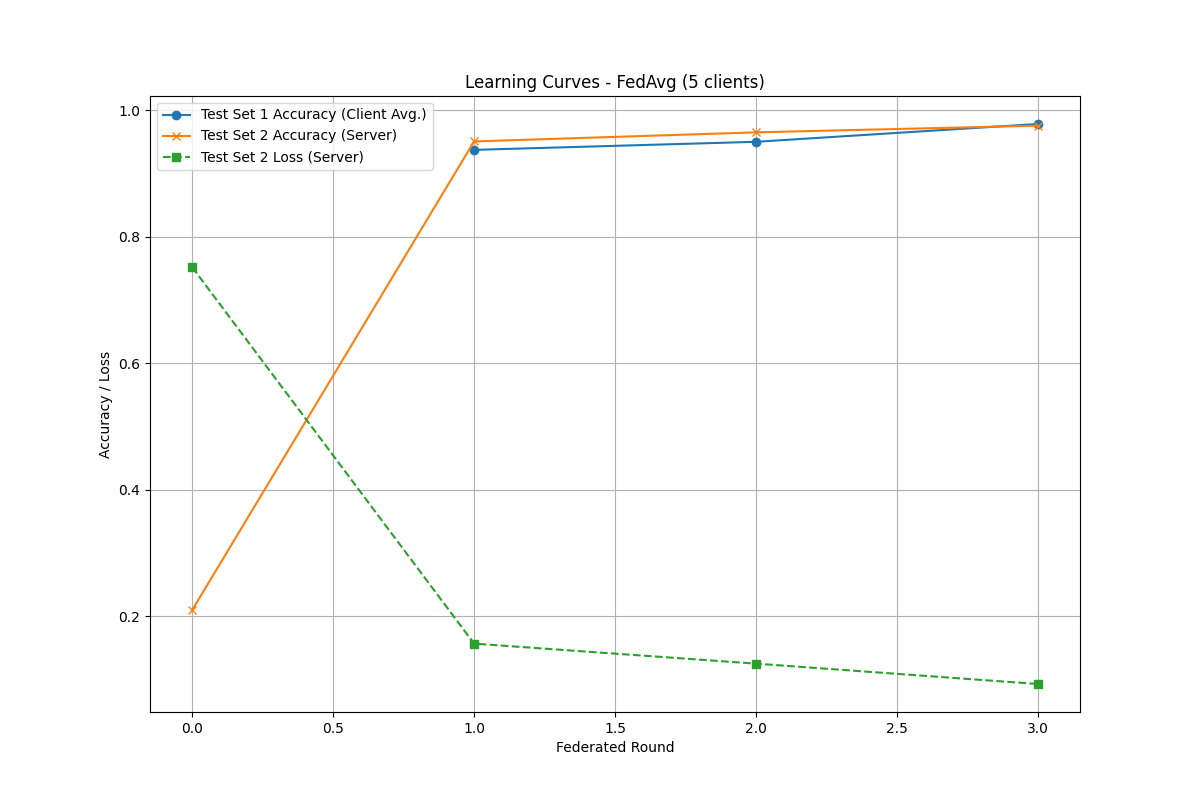
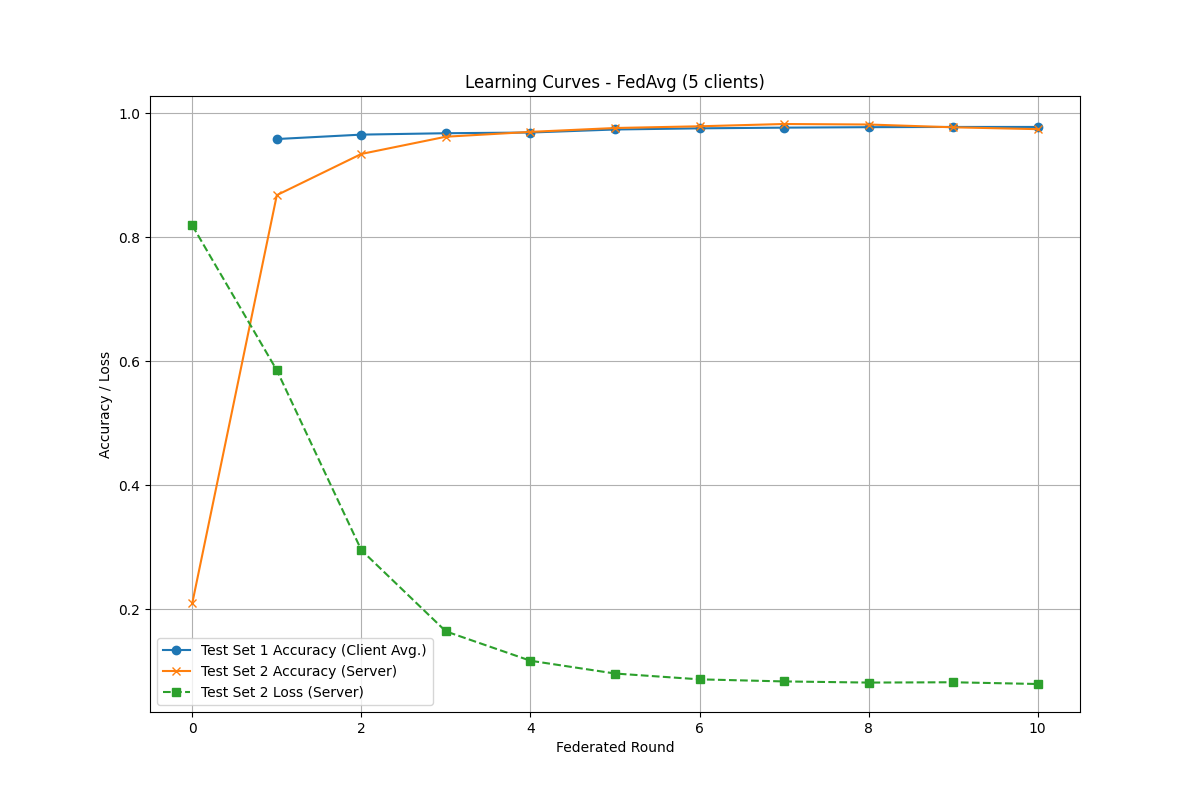
updated

diff --git a/federated_learning.py b/federated_learning.py
@@ -38,6 +38,39 @@ def plot_confusion_matrix(cm, classes, title, filename):
     plt.savefig(filename)
     plt.close()
 
+# --- Helper Function to Print Table Sections ---
+def print_table_section(title: str, headers: List[str], data_rows: List[List[str]], logger_instance):
+    logger_instance.info(f"\n{title}")
+    if not data_rows:
+        logger_instance.info("  (Bu bölüm için veri yok)")
+        return
+
+    col_widths = [len(header) for header in headers]
+    for row_data in data_rows:
+        for i, cell in enumerate(row_data):
+            col_widths[i] = max(col_widths[i], len(str(cell)))
+
+    # Create separator line
+    separator_parts = ["-" * width for width in col_widths]
+    separator = "-+-".join(separator_parts)
+    if not col_widths: # Prevent error if col_widths is empty
+        separator = ""
+
+    # Print header row
+    header_line_parts = [f"{headers[i]:<{col_widths[i]}}" for i in range(len(headers))]
+    logger_instance.info(" | ".join(header_line_parts))
+    if separator: # Only print separator if it's meaningful
+        logger_instance.info(separator)
+
+    # Print data rows
+    for row_data in data_rows:
+        row_line_parts = [f"{str(row_data[i]):<{col_widths[i]}}" for i in range(len(row_data))]
+        logger_instance.info(" | ".join(row_line_parts))
+    
+    if separator: # Add bottom line only if separator is meaningful
+        # Adjust length for " | " separators between columns
+        logger_instance.info("-" * (sum(col_widths) + (len(col_widths) -1) * 3 if col_widths else 0) )
+
 # --- Data Loading and Preprocessing ---
 def load_all_data(train_path='data/datatraining.txt', test1_path='data/datatest.txt', test2_path='data/datatest2.txt'):
     """Load, process, and scale separate training and two separate test files."""
@@ -119,7 +152,6 @@ def train_classical_models(X_train, y_train, X_test1, y_test1, X_test2, y_test2)
         }
         logger.info(f"{name} - Test Set 1 Accuracy: {acc_test1:.4f}")
         logger.info(f"{name} - Test Set 2 Accuracy: {acc_test2:.4f}")
-        logger.info(f"{name} - Training Time: {training_time:.2f} seconds")
     
     logger.info("--- Classical Models Training Completed ---")
     return results
@@ -143,14 +175,15 @@ class OccupancyNN(nn.Module):
 
 # Client class for federated learning
 class OccupancyClient(fl.client.NumPyClient):
-    def __init__(self, model, train_loader, val_loader_test1, device):
+    def __init__(self, model, train_loader, val_loader_test1, device, pos_weight_tensor=None):
         self.model = model
         self.train_loader = train_loader
         self.val_loader_test1 = val_loader_test1 # For Test Set 1
         self.device = device
-        self.optimizer = optim.Adam(self.model.parameters(), lr=0.05)
-        self.criterion = nn.BCELoss()
-        # Add a client-specific identifier (optional, for logging)
+        self.optimizer = optim.Adam(self.model.parameters(), lr=0.001) # Adjusted learning rate
+        self.criterion = nn.BCELoss() # Instantiate first
+        if pos_weight_tensor is not None:
+            self.criterion.pos_weight = pos_weight_tensor # Set pos_weight as an attribute
         self.client_id_str = "UnknownClient"
         if self.train_loader and self.train_loader.dataset:
             self.client_id_str = f"datasize_{len(self.train_loader.dataset)}"
@@ -244,10 +277,11 @@ class OccupancyClient(fl.client.NumPyClient):
 
 # FedProx Client class for federated learning
 class FedProxClient(OccupancyClient): # Inherits from OccupancyClient
-    def __init__(self, model, train_loader, val_loader_test1, device, mu=0.01):
-        super().__init__(model, train_loader, val_loader_test1, device)
+    def __init__(self, model, train_loader, val_loader_test1, device, mu=0.1, pos_weight_tensor=None):
+        super().__init__(model, train_loader, val_loader_test1, device, pos_weight_tensor) # Pass pos_weight_tensor to parent
         self.mu = mu
-        self.global_params = None
+        # Optimizer and criterion are set in parent, but we override optimizer for FedProx
+        self.optimizer = optim.Adam(self.model.parameters(), lr=0.0005) # Different LR for FedProx
         if self.train_loader and self.train_loader.dataset: # update client_id_str
             self.client_id_str = f"FedProx_datasize_{len(self.train_loader.dataset)}"
 
@@ -326,6 +360,13 @@ def main():
     input_size = X_train_scaled.shape[1]
     class_names_fl = ['Not Occupied', 'Occupied'] # Class names for FL CM
 
+    # Calculate pos_weight for BCELoss to handle class imbalance
+    num_positives = np.sum(y_train)
+    num_negatives = len(y_train) - num_positives
+    pos_weight_value = num_negatives / num_positives if num_positives > 0 else 1.0 # Avoid division by zero
+    pos_weight_tensor = torch.tensor([pos_weight_value], device=device)
+    logger.info(f"Calculated pos_weight for BCELoss: {pos_weight_value:.4f}")
+
     # Create initial parameters once (same for all FL simulations)
     initial_model_for_fl = OccupancyNN(input_size).to(device)
     initial_params_ndarrays = [val.cpu().numpy() for _, val in initial_model_for_fl.state_dict().items()]
@@ -334,7 +375,7 @@ def main():
     client_counts_to_test = [2, 3, 5] 
     all_fl_results_by_client_count = {}
     # Update fit_config to include number of epochs
-    num_local_epochs = 1 # Control local epoch count here
+    num_local_epochs = 5 # Adjusted local epoch count
 
     for n_c in client_counts_to_test:
         logger.info(f"\n--- Starting Federated Learning Simulation: {n_c} Clients ---")
@@ -349,7 +390,7 @@ def main():
             train_loader = DataLoader(TensorDataset(torch.FloatTensor(X_train_client), torch.FloatTensor(y_train_client).reshape(-1, 1)), batch_size=32, shuffle=True)
             val_loader_test1 = DataLoader(TensorDataset(torch.FloatTensor(X_test1_scaled), torch.FloatTensor(y_test1).reshape(-1, 1)), batch_size=32)
             model = OccupancyNN(input_size).to(device)
-            return OccupancyClient(model, train_loader, val_loader_test1, device)
+            return OccupancyClient(model, train_loader, val_loader_test1, device, pos_weight_tensor=pos_weight_tensor)
 
         def current_client_fn_fedprox(cid: str) -> fl.client.Client:
             client_id = int(cid)
@@ -358,7 +399,7 @@ def main():
             train_loader = DataLoader(TensorDataset(torch.FloatTensor(X_train_client), torch.FloatTensor(y_train_client).reshape(-1, 1)), batch_size=32, shuffle=True)
             val_loader_test1 = DataLoader(TensorDataset(torch.FloatTensor(X_test1_scaled), torch.FloatTensor(y_test1).reshape(-1, 1)), batch_size=32)
             model = OccupancyNN(input_size).to(device)
-            return FedProxClient(model, train_loader, val_loader_test1, device, mu=0.01)
+            return FedProxClient(model, train_loader, val_loader_test1, device, mu=0.1, pos_weight_tensor=pos_weight_tensor)
 
         current_strategies_to_run = {
             "FedAvg": (current_client_fn_fedavg, fl.server.strategy.FedAvg),
@@ -369,6 +410,8 @@ def main():
         for name, (client_fn_for_strategy, server_strategy_class) in current_strategies_to_run.items():
             logger.info(f"\n--- Running {name} Simulation with {current_num_clients} clients ---")
             
+            fl_start_time = time.time() # Record start time for FL strategy
+
             # Recreate evaluate_fn and get_last_params_fn for each strategy
             temp_model_for_eval_fn = OccupancyNN(input_size)
             evaluate_fn_test2, get_last_params_fn = get_evaluate_fn_test2_and_param_capture(
@@ -389,14 +432,25 @@ def main():
                 evaluate_metrics_aggregation_fn=aggregate_client_metrics_test1,
                 initial_parameters=fl_initial_parameters 
             )
+            
+            # Define ray_init_args to set object_store_memory
+            ray_init_args_config = {
+                "object_store_memory": 100 * 1024 * 1024,  # 100 MB
+                "ignore_reinit_error": True # Add this to avoid issues if Ray is already initialized
+            }
+
             history = fl.simulation.start_simulation(
                 client_fn=client_fn_for_strategy,
                 num_clients=current_num_clients,
-                config=fl.server.ServerConfig(num_rounds=3), # Further reduced num_rounds
+                config=fl.server.ServerConfig(num_rounds=10), # Adjusted num_rounds
                 strategy=strategy, 
-                client_resources={"num_cpus": 1, "num_gpus": 0.0} # CPU only for simplicity
+                client_resources={"num_cpus": 1, "num_gpus": 0.0}, # CPU only for simplicity
+                ray_init_args=ray_init_args_config
             )
             
+            fl_end_time = time.time() # Record end time for FL strategy
+            fl_training_time = fl_end_time - fl_start_time # Calculate training time
+
             current_run_fl_results[name] = {}
             if history.metrics_distributed and 'accuracy_test1' in history.metrics_distributed and history.metrics_distributed['accuracy_test1']:
                 current_run_fl_results[name]['Accuracy_Test1'] = history.metrics_distributed['accuracy_test1'][-1][1]
@@ -409,9 +463,11 @@ def main():
             else:
                 current_run_fl_results[name]['Accuracy_Test2'] = 0.0
                 logger.warning(f"Test Set 2 centralized metrics not found or empty for {name} ({current_num_clients} clients).")
+            
+            current_run_fl_results[name]['Training Time'] = fl_training_time # Store training time
             logger.info(f"--- {name} Simulation with {current_num_clients} clients Finished ---")
 
-            # --- Confusion Matrices for FL Model (with updated parameter retrieval) ---
+            # --- Confusion Matrices and Other Metrics for FL Model (with updated parameter retrieval) ---
             final_global_params_for_cm = get_last_params_fn()
             if final_global_params_for_cm:
                 final_global_params_ndarrays = parameters_to_ndarrays(final_global_params_for_cm)
@@ -429,11 +485,16 @@ def main():
                         outputs = final_global_model(batch_x.to(device))
                         predicted_labels = (outputs > 0.5).float().cpu().numpy()
                         y_pred_fl_test1_list.extend(predicted_labels.flatten())
-                cm_fl_test1 = confusion_matrix(y_test1, np.array(y_pred_fl_test1_list))
+                
+                y_pred_fl_test1_array = np.array(y_pred_fl_test1_list)
+                
+                cm_fl_test1 = confusion_matrix(y_test1, y_pred_fl_test1_array)
                 plot_confusion_matrix(cm_fl_test1, classes=class_names_fl,
                                       title=f'{name} ({current_num_clients} clients) - CM (Test Set 1)',
                                       filename=os.path.join('results', f'cm_{name}_{current_num_clients}clients_test1.png'))
-                
+                logger.info(f"{name} ({current_num_clients} clients) - Test Set 1 Final Accuracy (from history): "
+                            f"{current_run_fl_results[name].get('Accuracy_Test1', 0.0):.4f}")
+
                 # CM on Test Set 2
                 y_pred_fl_test2_list = []
                 with torch.no_grad():
@@ -442,12 +503,17 @@ def main():
                         outputs = final_global_model(batch_x.to(device))
                         predicted_labels = (outputs > 0.5).float().cpu().numpy()
                         y_pred_fl_test2_list.extend(predicted_labels.flatten())
-                cm_fl_test2 = confusion_matrix(y_test2, np.array(y_pred_fl_test2_list))
+                
+                y_pred_fl_test2_array = np.array(y_pred_fl_test2_list)
+
+                cm_fl_test2 = confusion_matrix(y_test2, y_pred_fl_test2_array)
                 plot_confusion_matrix(cm_fl_test2, classes=class_names_fl,
                                       title=f'{name} ({current_num_clients} clients) - CM (Test Set 2)',
                                       filename=os.path.join('results', f'cm_{name}_{current_num_clients}clients_test2.png'))
+                logger.info(f"{name} ({current_num_clients} clients) - Test Set 2 Final Accuracy (from history): "
+                            f"{current_run_fl_results[name].get('Accuracy_Test2', 0.0):.4f}")
             else:
-                logger.warning(f"FL CM: Could not capture final parameters - {name} ({current_num_clients} clients).")
+                logger.warning(f"FL CM & Metrics: Could not capture final parameters - {name} ({current_num_clients} clients).")
 
             # --- FL Learning Curves ---
             plt.figure(figsize=(12, 8))
@@ -489,21 +555,34 @@ def main():
     logger.info("\n\n--- COMPARATIVE RESULTS OF ALL MODELS (TABLE) ---")
     
     table_data_for_print = []
-    table_headers = ["Model Name", "Test Set 1 Accuracy", "Test Set 2 Accuracy"]
+    table_headers = [
+        "Model Name", 
+        "Acc (Test1)",
+        "Acc (Test2)",
+        "Training Time (s)" # Updated header
+    ]
     
     # Classical model results
     for name_classical, metrics_classical in classical_results.items():
-        acc1_classical = metrics_classical.get('Accuracy_Test1', 0.0)
-        acc2_classical = metrics_classical.get('Accuracy_Test2', 0.0)
-        table_data_for_print.append([name_classical, f"{acc1_classical:.4f}", f"{acc2_classical:.4f}"])
+        row = [name_classical]
+        row.extend([
+            f"{metrics_classical.get('Accuracy_Test1', 0.0):.4f}",
+            f"{metrics_classical.get('Accuracy_Test2', 0.0):.4f}",
+            f"{metrics_classical.get('Training Time', 0.0):.2f}" # Add training time
+        ])
+        table_data_for_print.append(row)
 
     # FL model results
     for n_c_fl, fl_results_for_count_fl in all_fl_results_by_client_count.items():
         for strategy_name_fl, metrics_fl in fl_results_for_count_fl.items():
-            model_display_name_fl = f"{strategy_name_fl} ({n_c_fl} clients)"
-            acc1_fl = metrics_fl.get('Accuracy_Test1', 0.0)
-            acc2_fl = metrics_fl.get('Accuracy_Test2', 0.0)
-            table_data_for_print.append([model_display_name_fl, f"{acc1_fl:.4f}", f"{acc2_fl:.4f}"])
+            model_display_name_fl = f"{strategy_name_fl} ({n_c_fl} clients)" # Back to English "clients"
+            row = [model_display_name_fl]
+            row.extend([
+                f"{metrics_fl.get('Accuracy_Test1', 0.0):.4f}",
+                f"{metrics_fl.get('Accuracy_Test2', 0.0):.4f}",
+                f"{metrics_fl.get('Training Time', 0.0):.2f}" # Add training time
+            ])
+            table_data_for_print.append(row)
 
     # Calculate column widths
     col_widths = [len(header) for header in table_headers]
